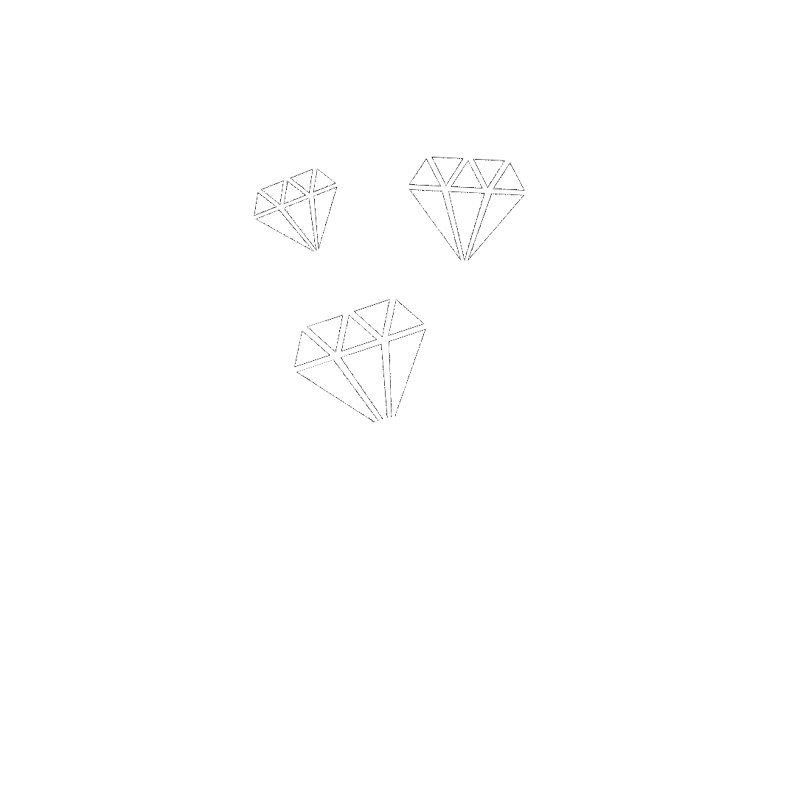
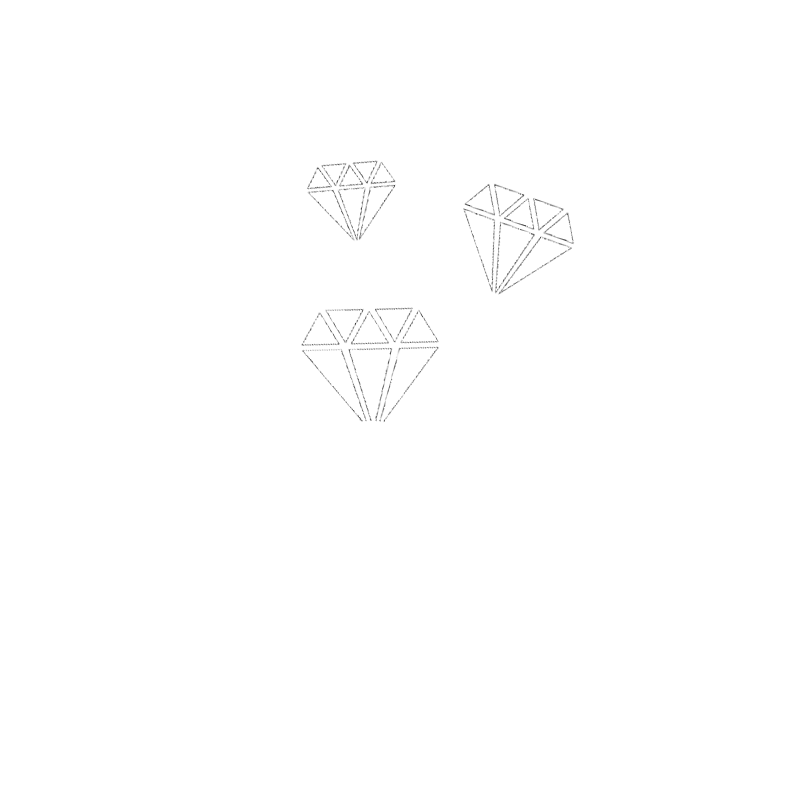
チェックイン

Changed region(s): [[0.3125, 0.1875, 0.7188, 0.375], [0.375, 0.375, 0.5625, 0.5312]]

diff --git a/public_html/index.html b/public_html/index.html
@@ -17,7 +17,7 @@
     <link href='https://fonts.googleapis.com/css?family=Roboto+Slab:400,100,300,700' rel='stylesheet' type='text/css'>
     <!-- Custom styles for this template -->
     <link href="css/agency.min.css" rel="stylesheet">
-    <link rel="stylesheet" type="text/css" href="./font-awesome/css/font-awesome-plugin.css?v=201805231913">
+    <link rel="stylesheet" type="text/css" href="./font-awesome/css/font-awesome-plugin.css?v=201806010239">
     <script src="https://cdnjs.cloudflare.com/ajax/libs/Chart.js/2.7.1/Chart.bundle.min.js"></script>
 </head>
 <body id="page-top">
@@ -436,7 +436,11 @@
             <div class="row">
                 <div class="col-sm-3">
                     <div class="team-member">
-                        <img class="mx-auto rounded-circle" src="img/team/1.jpg" alt="">
+	                    <span class="fa-stack fa-4x">
+	                        <i class="fa fa-circle fa-stack-2x text-primary"></i>
+	                        <i class="fa fa-diamond fa-stack-1x fa-inverse"></i>
+	                    </span>
+                        <!-- img class="mx-auto rounded-circle" src="img/team/01.png" alt="" -->
                         <h4>BDA / COIN</h4>
                         <p class="text-muted">リーダー / 運営 / 開発</p>
                         <!--ul class="list-inline social-buttons">
@@ -460,7 +464,11 @@
                 </div>
                 <div class="col-sm-3">
                     <div class="team-member">
-                        <img class="mx-auto rounded-circle" src="img/team/2.jpg" alt="">
+	                    <span class="fa-stack fa-4x">
+	                        <i class="fa fa-circle fa-stack-2x text-primary"></i>
+	                        <i class="fa fa-diamond fa-stack-1x fa-inverse"></i>
+	                    </span>
+                        <!-- img class="mx-auto rounded-circle" src="img/team/01.png" alt="" -->
                         <h4>K. A.</h4>
                         <p class="text-muted">Webクリエイター / BOT / 開発</p>
                         <!--ul class="list-inline social-buttons">
@@ -484,9 +492,13 @@
                 </div>
                 <div class="col-sm-3">
                     <div class="team-member">
-                        <img class="mx-auto rounded-circle" src="img/team/3.jpg" alt="">
+	                    <span class="fa-stack fa-4x">
+	                        <i class="fa fa-circle fa-stack-2x text-primary"></i>
+	                        <i class="fa fa-diamond fa-stack-1x fa-inverse"></i>
+	                    </span>
+                        <!-- img class="mx-auto rounded-circle" src="img/team/01.png" alt="" -->
                         <h4>ミニーマウス</h4>
-                        <p class="text-muted">広報 / イベント担当 / 集客</p>
+                        <p class="text-muted">広報 / イベント / 集客</p>
                         <!-- ul class="list-inline social-buttons">
                           <li class="list-inline-item">
                             <a href="#">
@@ -508,7 +520,11 @@
                 </div>
                 <div class="col-sm-3">
                     <div class="team-member">
-                        <img class="mx-auto rounded-circle" src="img/team/3.jpg" alt="">
+	                    <span class="fa-stack fa-4x">
+	                        <i class="fa fa-circle fa-stack-2x text-primary"></i>
+	                        <i class="fa fa-diamond fa-stack-1x fa-inverse"></i>
+	                    </span>
+                        <!-- img class="mx-auto rounded-circle" src="img/team/01.png" alt="" -->
                         <h4>Ykyky</h4>
                         <p class="text-muted">営業 / 集客</p>
                         <!-- ul class="list-inline social-buttons">
@@ -532,9 +548,13 @@
                 </div>
                 <div class="col-sm-3">
                     <div class="team-member">
-                        <img class="mx-auto rounded-circle" src="img/team/3.jpg" alt="">
+	                    <span class="fa-stack fa-4x">
+	                        <i class="fa fa-circle fa-stack-2x text-primary"></i>
+	                        <i class="fa fa-diamond fa-stack-1x fa-inverse"></i>
+	                    </span>
+                        <!-- img class="mx-auto rounded-circle" src="img/team/01.png" alt="" -->
                         <h4>矢澤にこ</h4>
-                        <p class="text-muted">広報 / イベント担当</p>
+                        <p class="text-muted">広報 / イベント</p>
                         <!-- ul class="list-inline social-buttons">
                           <li class="list-inline-item">
                             <a href="#">
@@ -556,7 +576,11 @@
                 </div>
                 <div class="col-sm-3">
                     <div class="team-member">
-                        <img class="mx-auto rounded-circle" src="img/team/3.jpg" alt="">
+	                    <span class="fa-stack fa-4x">
+	                        <i class="fa fa-circle fa-stack-2x text-primary"></i>
+	                        <i class="fa fa-diamond fa-stack-1x fa-inverse"></i>
+	                    </span>
+                        <!-- img class="mx-auto rounded-circle" src="img/team/01.png" alt="" -->
                         <h4>LOOK</h4>
                         <p class="text-muted">アドバイザー / 開発サポート</p>
                         <!-- ul class="list-inline social-buttons">
@@ -580,7 +604,11 @@
                 </div>
                 <div class="col-sm-3">
                     <div class="team-member">
-                        <img class="mx-auto rounded-circle" src="img/team/3.jpg" alt="">
+	                    <span class="fa-stack fa-4x">
+	                        <i class="fa fa-circle fa-stack-2x text-primary"></i>
+	                        <i class="fa fa-diamond fa-stack-1x fa-inverse"></i>
+	                    </span>
+                        <!-- img class="mx-auto rounded-circle" src="img/team/01.png" alt="" -->
                         <h4>TT</h4>
                         <p class="text-muted">ブロックチェーンアドバイザー / サポーター</p>
                         <!-- ul class="list-inline social-buttons">
